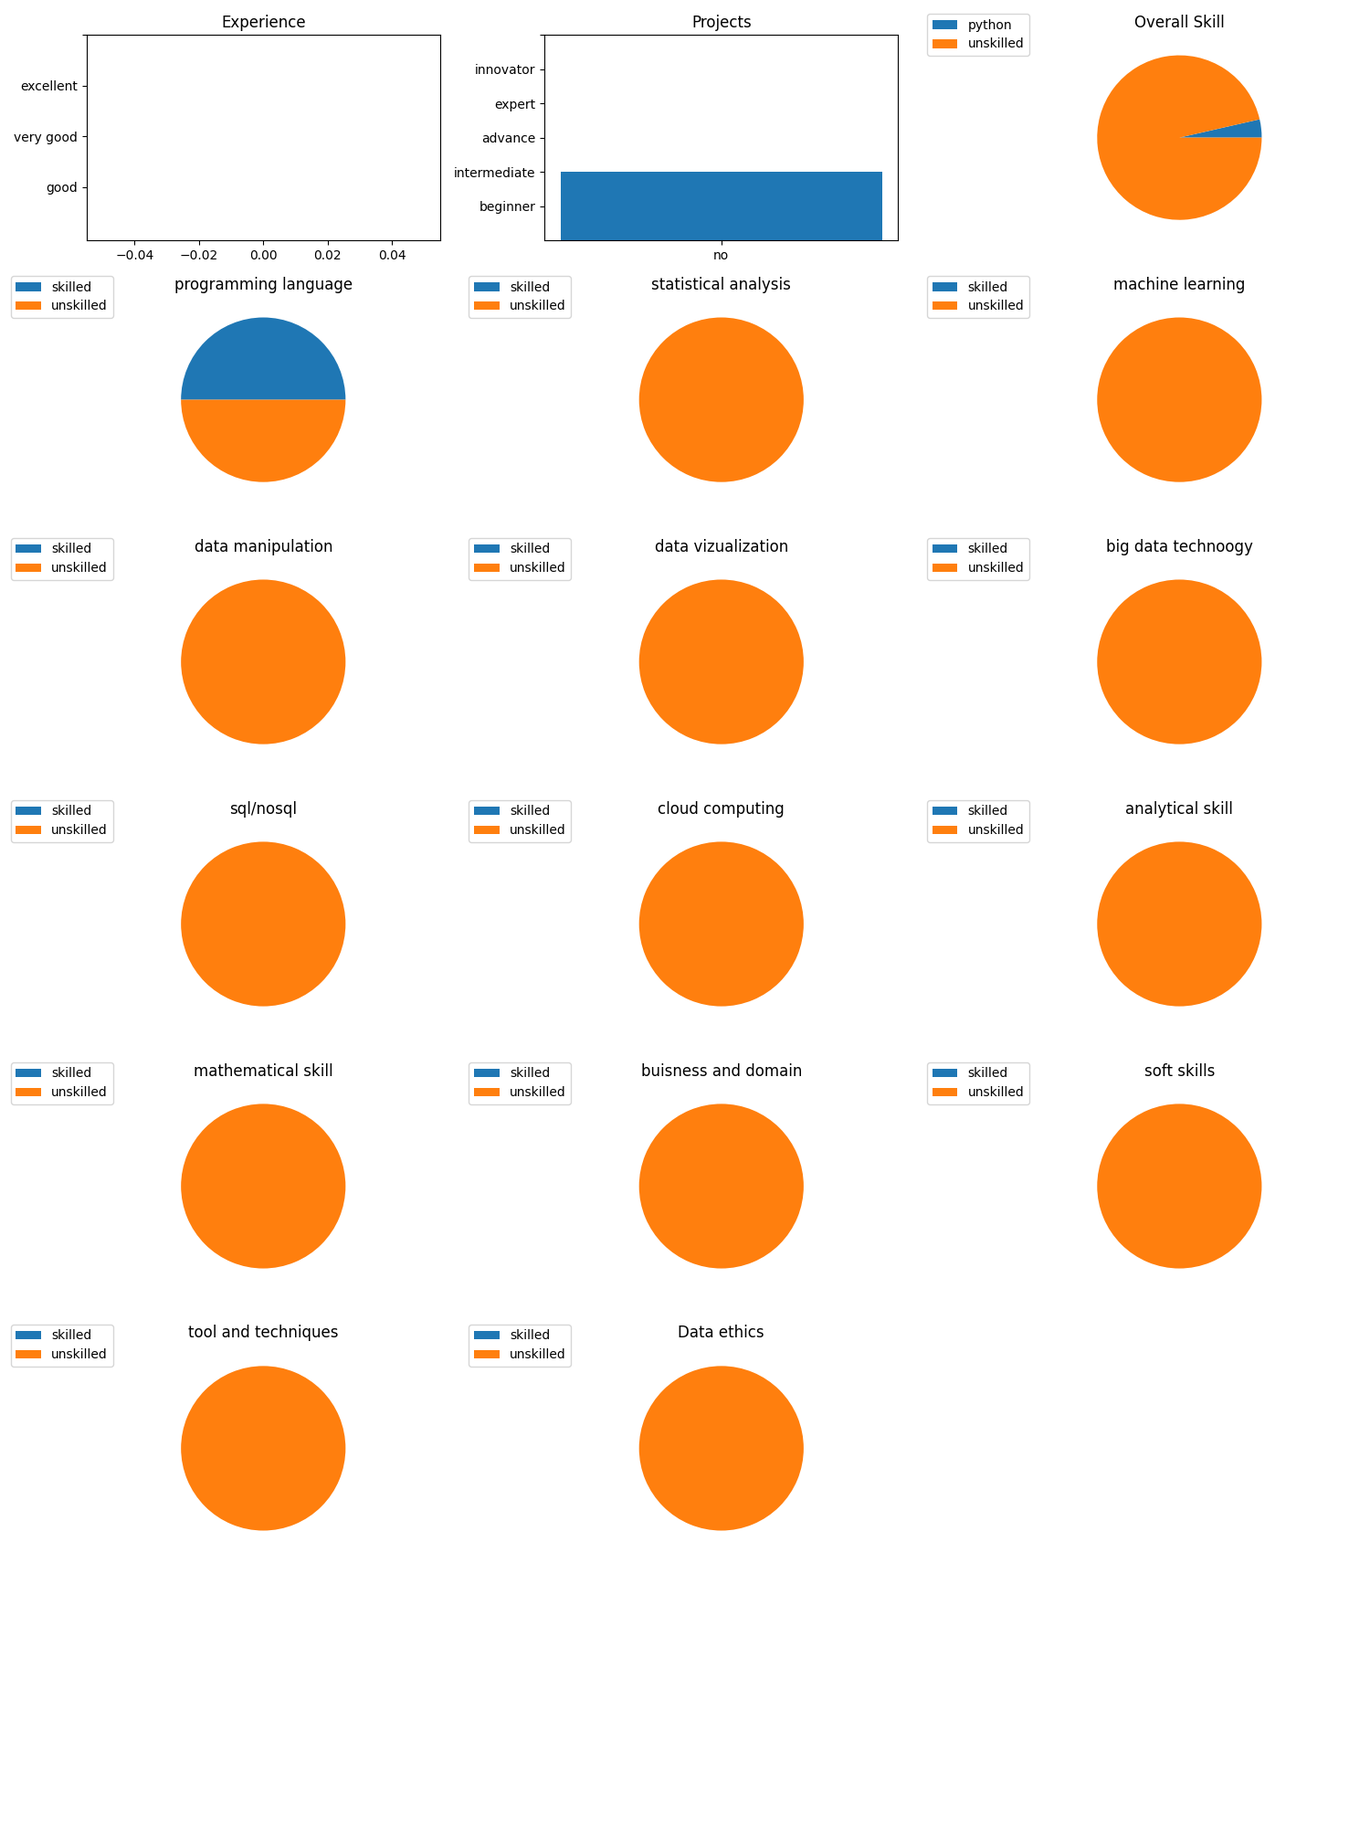
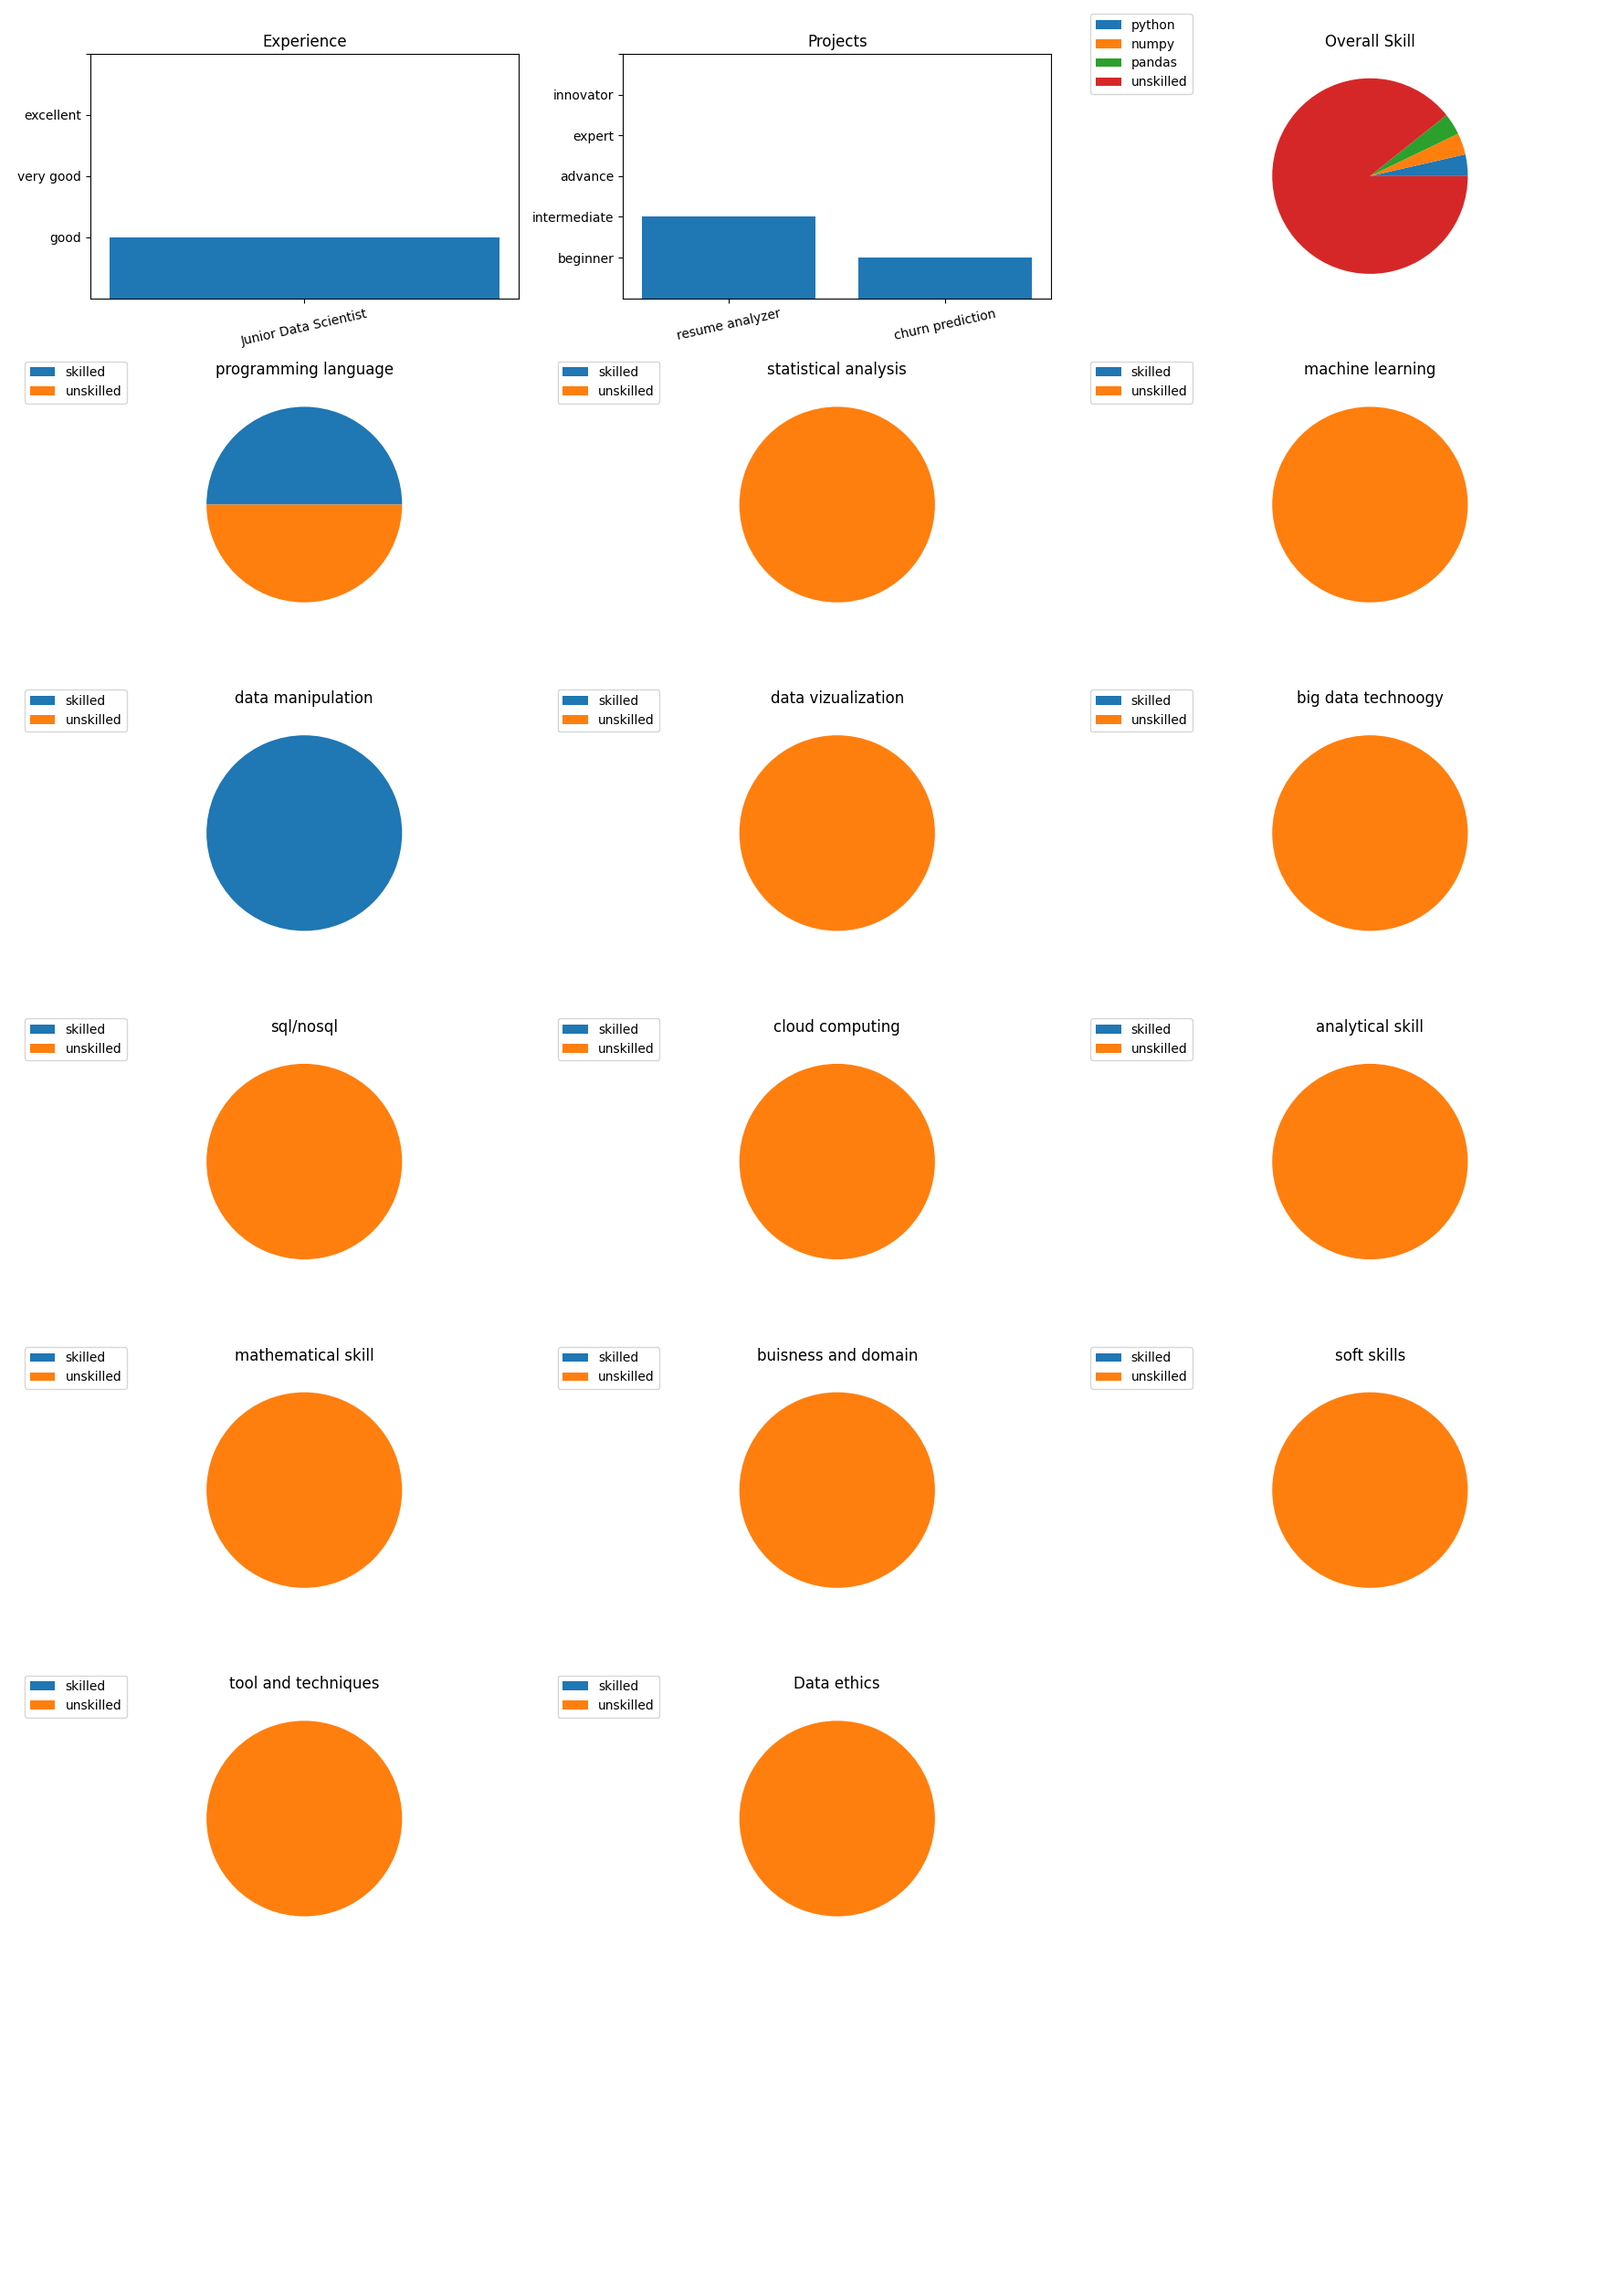
in

diff --git a/templates/final_resume2.html b/templates/final_resume2.html
@@ -24,17 +24,17 @@
 <body>
     <form class="lab" action="/data1"  enctype="multipart/form-data" method="post" style="text-align: center;">
         <div class="leftback">
-            <div style="display: flex; flex-direction: column; padding-left: 7.5%;">
+            <div style="display: flex; flex-direction: column; padding-left: 1.5%;">
                 <label for="" class="Leftlabel" style="color: white; font-size: 20px; padding: 1.5%; margin-top: 5%;"><u>Phone</u></label>
                 <label class="phi" required style="width:100% ; font-size: 17px; margin-bottom: 5%; color: white;">{{ phone_info | safe}}</label>
                 <label for="" class="Leftlabel" style="color: white; font-size: 20px; padding: 1.5%;" ><u>Email</u></label>
                 <label class="emi" required style="font-size: 17px; height: 0%; width: 100%; margin-bottom: 5%; color: white;">{{email_info}}</label>
             </div>
-            <div style="padding-left: 27.5%;">
+            <div style="padding-left: 12.5%;">
                 <label class="nmi" required style="font-size: 40px; width: 100%; color: white;">{{ name_info | safe }}</label>   
             </div>
-            <div style="margin-left: 25%;">
-                <img style="height: 50%; width: 50%; border-radius: 20px; margin: 5%; margin-left: 50%;" src="{{url_for('static',filename='uploads/'+img_info)}}" alt="l" class="pathi">
+            <div style="margin-left: 6.5%;">
+                <img style="height: 20%; width: 20%; border-radius: 20px; margin: 5%; margin-left: 10%;" src="{{url_for('static',filename='uploads/'+img_info)}}" alt="l" class="pathi">
             </div>    
         </div>
         <div style="padding-top: 1%; padding-bottom: 0.75%;">

diff --git a/static/css/final_resume.css b/static/css/final_resume.css
@@ -93,10 +93,10 @@ body{
 }
 .pathi{
     border-radius: 500px;
-    width: 50%;
-    height: 25%;
+    width: 40%;
+    height: 20%;
     margin-top: 5%;
-    margin-left: 17.5%;
+    margin-left: 22.5%;
     margin-bottom: 2%;
     justify-content: center;
 }
@@ -221,10 +221,10 @@ body{
     }
     .pathi{
         border-radius: 500px;
-        width: 50%;
-        height: 25%;
+        width: 40%;
+        height: 20%;
         margin-top: 5%;
-        margin-left: 17.5%;
+        margin-left: 22.5%;
         margin-bottom: 2%;
         justify-content: center;
     }

diff --git a/experienceMarks.py b/experienceMarks.py
@@ -117,16 +117,20 @@ def expmarks():
             print(exp)
             print(exp[0])
             print(exp[0][0])
+    print("exp",list(exp[-1]))
+    print("np",np.array(exp[-1]))
+    explist=list(exp[-1])
     expintext=[]
-    for i in exp[0]:
+    for i in explist:
         if i==2 or i==2.0:
             expintext.append("Good")
         elif i==1 or i==1.0:
             expintext.append("Excellent")
         elif i==0 or i==0.0 :
             expintext.append("Very Good")
+    print(expintext)
     exp_level=[]
-    for i in exp[0]:
+    for i in explist:
         if i==2 or i==2.0:
             exp_level.append(1.0)
         elif i==1 or i==1.0:
@@ -135,4 +139,5 @@ def expmarks():
             exp_level.append(2.0)
         elif i==-1 or i==-1.0:
             exp_level.append(0.0)
+    print(exp_level)
     return company,jobs,expintext,exp_level

diff --git a/plots.py b/plots.py
@@ -6,6 +6,7 @@ def pltimg():
     import os
     comapny,job,exp,lvl=expmarks()
     skillsnames,skillshave,skillpoints,allskillpoints=skMarks()
+    print("level",lvl)
     exp_sum=sum(lvl)
     if exp_sum>3:
         exp_sum=3
@@ -13,14 +14,16 @@ def pltimg():
     global percentage_exp
     percentage_exp=f"{(exp_sum/3)*100 :.2f}%"
     pr,lb,lv=Marks()
-    plt.figure(figsize=(15,20))
+    plt.figure(figsize=(17.5,25))
     plt.subplot(7,3,1)
     plt.bar(job,lvl)
     plt.title("Experience")
+    plt.xticks(rotation=12.5)
     plt.yticks([1,2,3,4],["good","very good","excellent",""])
     plt.subplot(7,3,2)
     plt.bar(pr,lv)
     plt.title("Projects")
+    plt.xticks(rotation=12.5)
     plt.yticks([1,2,3,4,5,6],["beginner","intermediate","advance","expert","innovator",""])
     plt.subplot(7,3,3)
     plt.pie(skillpoints)

diff --git a/app.py b/app.py
@@ -193,4 +193,4 @@ def marks():
 if __name__=="__main__":
     if not os.path.exists(app.config['UPLOAD_FOLDER']):
         os.makedirs(app.config['UPLOAD_FOLDER'])
-    app.run(debug=False,host="0.0.0.0",port=5000)
+    app.run(debug=False)
